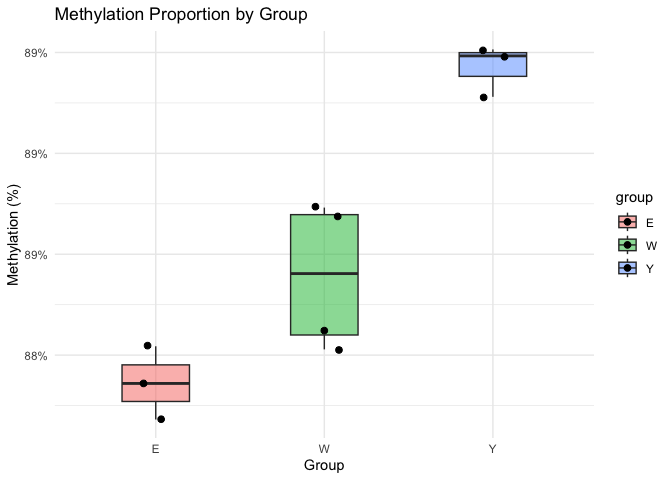
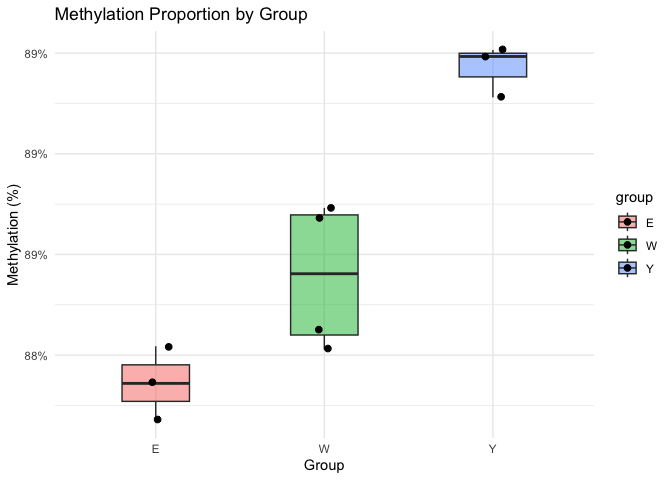
rmd

diff --git a/results/2025-09-11/README.md b/results/2025-09-11/README.md
@@ -179,7 +179,7 @@
 ### Integration of EM-seq, ATAC-seq, RNA-seq
 
 <figure>
-<img src="igv_snapshot_hmga2.png" alt="all" />
+<img src="igv_snapshot_all.png" alt="all" />
 <figcaption aria-hidden="true">all</figcaption>
 </figure>
 
